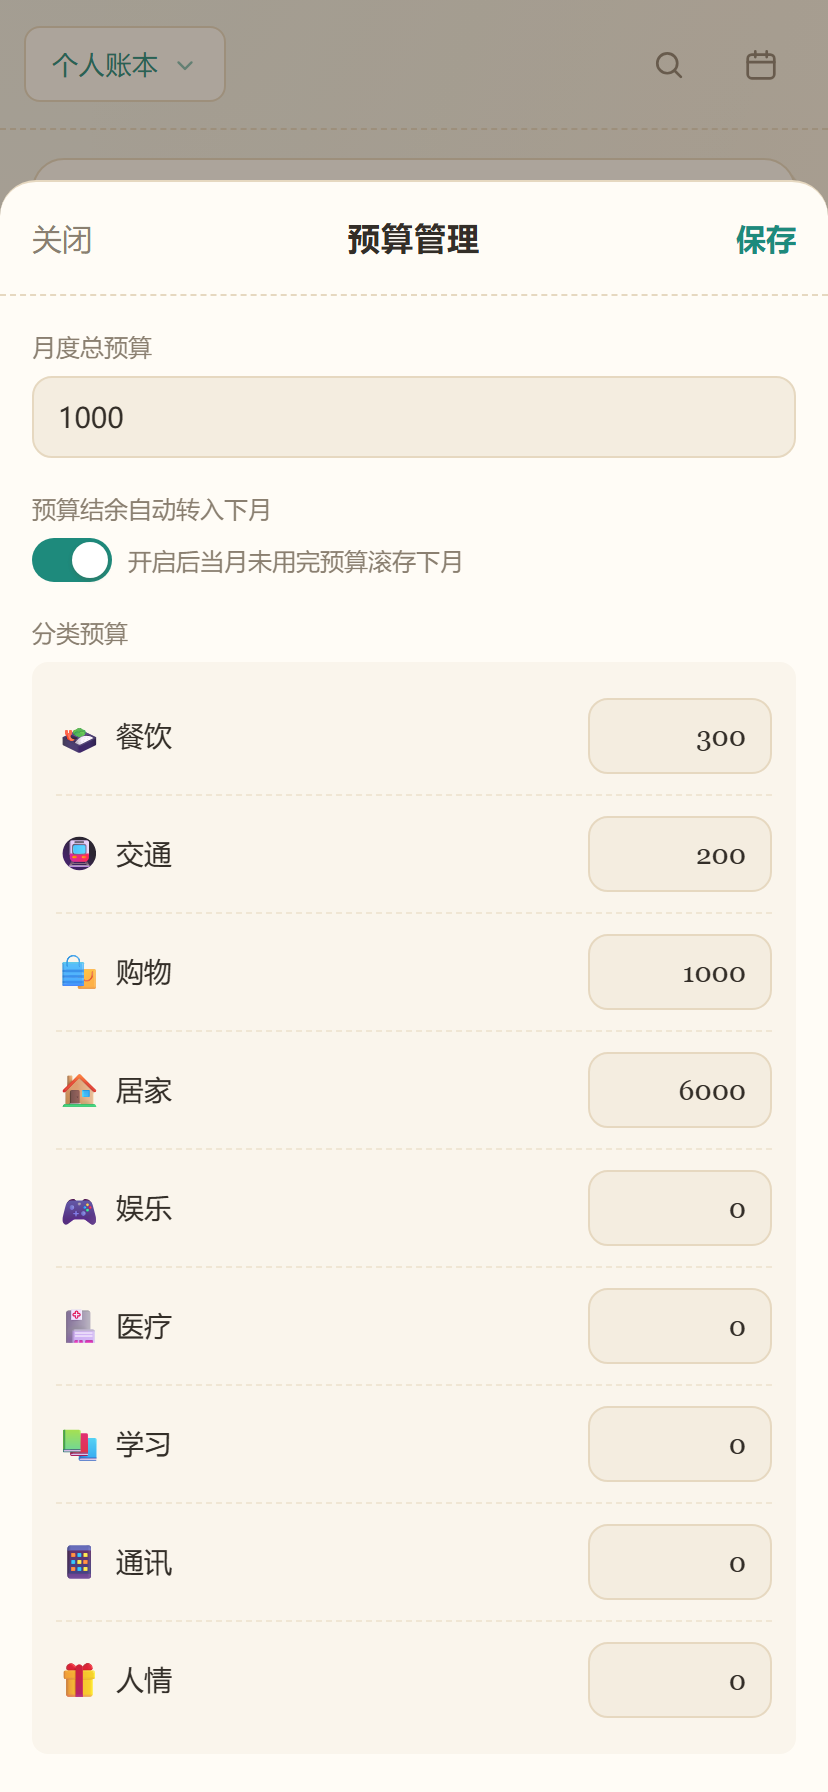
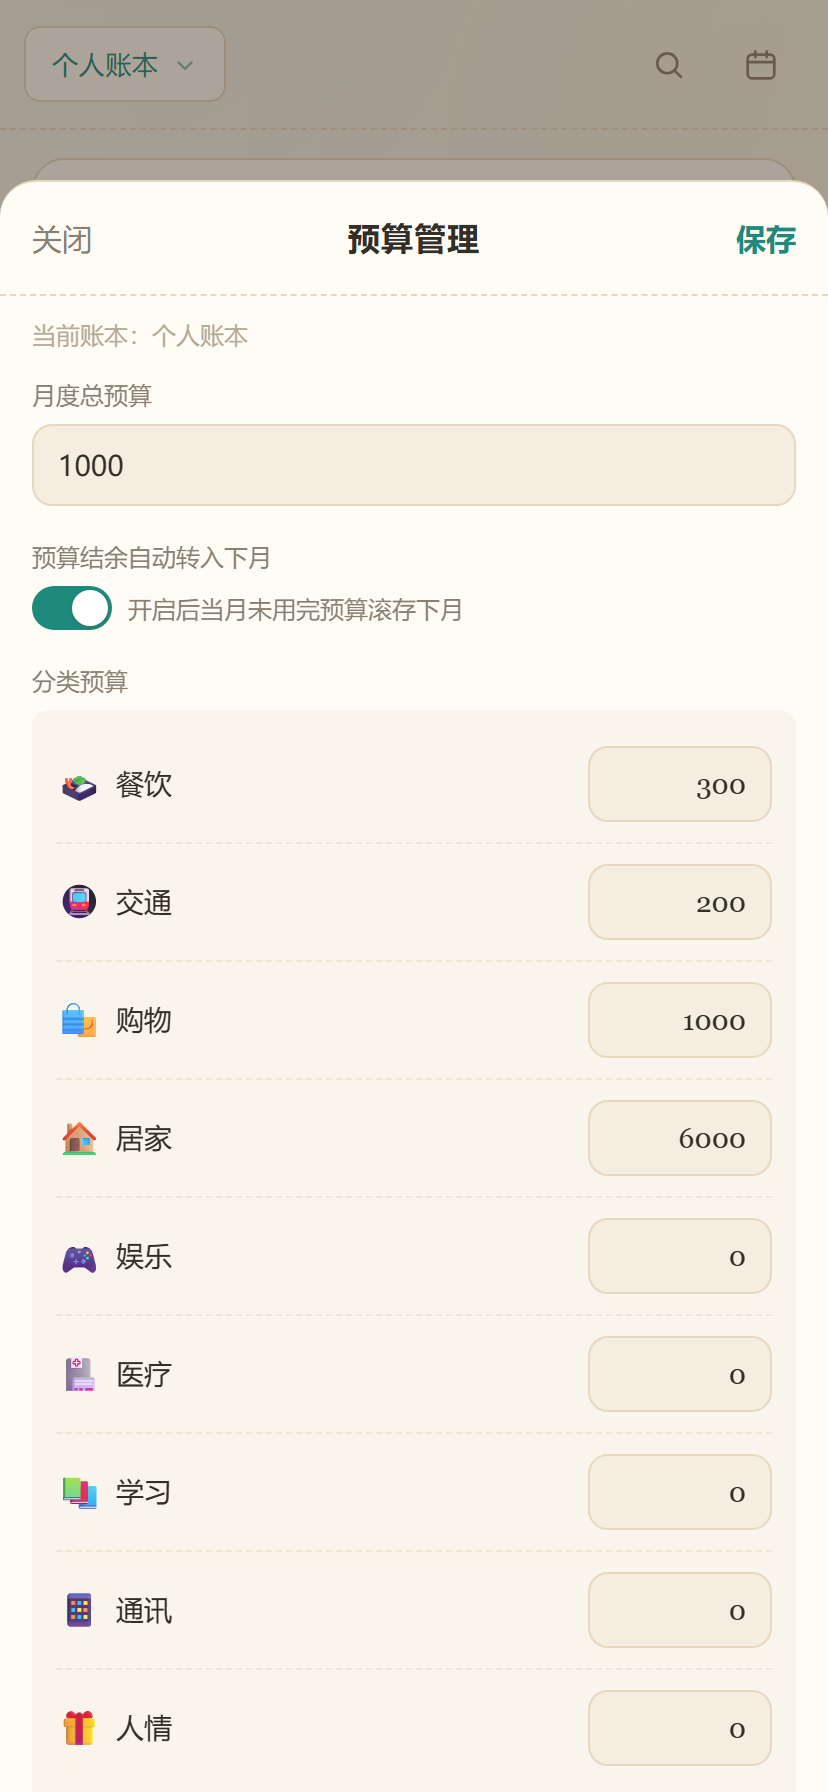
预算：所有账本均可设置本月预算，支持新增与修改（v1.2）

diff --git a/index.html b/index.html
@@ -271,6 +271,12 @@
       60% { box-shadow: 0 0 0 4px rgba(192,68,47,0); }
       100% { box-shadow: 0 0 0 0 rgba(192,68,47,0); }
     }
+    /* 未设置预算时的引导块（所有账本通用） */
+    .budget-empty { text-align: center; padding: 14px 8px 4px; }
+    .budget-empty .msg { font-size: 13px; color: var(--text-2); }
+    .budget-empty .empty-hint { font-size: 11.5px; color: var(--text-3); margin-top: 6px; letter-spacing: .3px; }
+    /* 预算弹窗顶部的账本归属提示 */
+    .budget-scope { font-size: 12px; color: var(--text-3); margin: -6px 0 12px; }
 
     /* ============ 账单列表 ============ */
     .bill-section { margin-bottom: 10px; }
@@ -1326,6 +1332,7 @@
         <button class="save" id="saveBudget">保存</button>
       </div>
       <div class="modal-body">
+        <div class="budget-scope" id="bgScope">当前账本</div>
         <div class="field">
           <label>月度总预算</label>
           <input type="number" id="bgTotal" step="0.01" placeholder="0 表示不设">
@@ -2035,8 +2042,10 @@
       $('#mPrev').onclick = () => goMonth(-1);
       $('#mNext').onclick = () => goMonth(1);
 
-      // 预算卡片
-      const bg = (DATA.budgets[STATE.activeLedger] || { total: 0, categories: {} });
+      // 预算卡片：所有账本（个人/家庭/旅行/自定义）都展示，未设置时提供「新增」入口
+      const bg = (DATA.budgets[STATE.activeLedger] || { total: 0, carryOver: false, categories: {} });
+      const catBudgetEntries = Object.entries(bg.categories || {}).filter(([, v]) => v > 0);
+      const hasBudget = bg.total > 0 || catBudgetEntries.length > 0;
       let budgetCardHtml = '';
       if (bg.total > 0) {
         // 结余结转：上月未用完的预算滚入本月
@@ -2058,7 +2067,6 @@
         <div style="font-size:11.5px;margin-top:6px;color:${remaining >= 0 ? 'var(--text-3)' : 'var(--danger)'};font-weight:${remaining >= 0 ? '400' : '600'}">${remaining >= 0 ? '剩余 ' + fmtNum(remaining) : '已超支 ' + fmtNum(-remaining)}</div>`;
       }
       // 分类预算
-      const catBudgetEntries = Object.entries(bg.categories || {}).filter(([, v]) => v > 0);
       if (catBudgetEntries.length) {
         catBudgetEntries.forEach(([cid, val]) => {
           const cat = categoryById(cid);
@@ -2076,13 +2084,19 @@
           <div class="progress"><div class="progress-bar ${cls}" style="width:${p}%"></div></div>`;
         });
       }
-      if (budgetCardHtml) {
-        $('#budgetCard').innerHTML = `<div class="card-title"><span>本月预算</span><span class="more" id="editBudgetBtn">设置</span></div>${budgetCardHtml}`;
-        $('#budgetCard').style.display = '';
-        $('#editBudgetBtn').onclick = openBudgetEditor;
+      if (hasBudget) {
+        $('#budgetCard').innerHTML = `<div class="card-title"><span>本月预算</span><span class="more" id="editBudgetBtn">修改</span></div>${budgetCardHtml}`;
       } else {
-        $('#budgetCard').style.display = 'none';
+        $('#budgetCard').innerHTML = `<div class="card-title"><span>本月预算</span><span class="more" id="editBudgetBtn">新增</span></div>
+          <div class="budget-empty">
+            <div class="msg">还没有设置本月预算</div>
+            <div class="empty-hint">设置后可在这里看到已用与剩余进度</div>
+            <button class="btn ghost" id="addBudgetBtn" style="margin-top:14px;padding:9px 20px;font-size:13px">设置本月预算</button>
+          </div>`;
+        $('#addBudgetBtn').onclick = openBudgetEditor;
       }
+      $('#editBudgetBtn').onclick = openBudgetEditor;
+      $('#budgetCard').style.display = '';
 
       // 账单列表（按日期分组）
       const wrap = $('#billsWrap');
@@ -2846,8 +2860,15 @@
        ==================================================================== */
     $$('[data-go="budgets"]').forEach(b => b.addEventListener('click', openBudgetEditor));
     function openBudgetEditor() {
-      const bg = DATA.budgets[STATE.activeLedger] || { total: 0, carryOver: false, categories: {} };
+      // 所有账本都可编辑预算：不存在或结构不完整时按空预算补齐
+      let bg = DATA.budgets[STATE.activeLedger];
+      if (!bg || typeof bg !== 'object') bg = { total: 0, carryOver: false, categories: {} };
+      if (!bg.categories) bg.categories = {};
       DATA.budgets[STATE.activeLedger] = bg;
+      // 提示当前编辑的是哪个账本，避免多账本时改错对象
+      const led = ledgerById(STATE.activeLedger);
+      const scopeEl = $('#bgScope');
+      if (scopeEl) scopeEl.textContent = '当前账本：' + (led ? led.name : '—');
       $('#bgTotal').value = bg.total || 0;
       $('#bgCarry').classList.toggle('on', !!bg.carryOver);
       const list = $('#bgCatList');
@@ -3633,7 +3654,7 @@
         <div style="text-align:center;padding:20px 0">
           <div style="width:76px;height:76px;border-radius:50%;background:var(--primary-soft);color:var(--primary);display:flex;align-items:center;justify-content:center;margin:0 auto">${svgOf('leaf', 40)}</div>
           <div style="font-size:20px;font-weight:700;margin-top:12px;letter-spacing:2px">小青账</div>
-          <div style="font-size:12px;color:var(--text-3);margin:4px 0 20px">HTML 复刻版 · v1.1<span style="opacity:.7"> · 2026-10-20</span></div>
+          <div style="font-size:12px;color:var(--text-3);margin:4px 0 20px">HTML 复刻版 · v1.2<span style="opacity:.7"> · 2026-10-20</span></div>
           <p style="font-size:13px;color:var(--text-2);line-height:1.7">
             原版参考：小青账 (pro.youqian.bill)<br>
             本复刻为学习/演示用途，纯前端实现：<br>

diff --git a/guide.html b/guide.html
@@ -142,7 +142,7 @@
     <h1>小青账 · HTML 版<br>使用说明书</h1>
     <p class="sub">一款可离线运行的轻量记账工具 —— 多账本、二级分类、资产管理、分类预算、可视化报表</p>
     <div class="chips">
-      <span class="chip">适用 App v1.1</span>
+      <span class="chip">适用 App v1.2</span>
       <span class="chip grey">实测日期 2026-10-17</span>
       <span class="chip grey">18 组 · 136 项功能实测全部通过</span>
       <span class="chip grey">本地存储 · 零联网</span>
@@ -193,7 +193,7 @@
       <tr><td>搜索</td><td>按备注、分类、账户、金额、日期关键词检索当前账本的账单</td></tr>
       <tr><td>报表</td><td>当日收支趋势折线图 + 分类占比环形图，支持一级 / 二级分类粒度切换</td></tr>
       <tr><td>资产</td><td>多账户余额管理；净资产 / 总资产 / 总负债汇总；账户可增删改；支持自定义支付方式</td></tr>
-      <tr><td>预算</td><td>月度总预算 + 各一级分类预算；进度条与超支预警；可将上月结余结转到本月</td></tr>
+      <tr><td>预算</td><td>月度总预算 + 各一级分类预算，每个账本独立设置；进度条与超支预警；可将上月结余结转到本月</td></tr>
       <tr><td>日历</td><td>月历视图，有收支的日期打点（红=支出／绿=收入），点日期查看当日明细</td></tr>
       <tr><td>分类管理</td><td>支出 / 收入两套分类，支持新增一级与二级分类、改图标改名称、删除</td></tr>
       <tr><td>数据</td><td>导出 JSON 全量备份或 CSV 账单（Excel 可直接打开）；导入支持「合并」与「覆盖」两种方式</td></tr>
@@ -472,9 +472,9 @@
 
   <!-- 3.8 -->
   <h3><span class="no">3.8</span>预算：给花钱设一条线</h3>
-  <p><strong>用途：</strong>设定月度总预算与分类预算，超支时首页直接预警。</p>
+  <p><strong>用途：</strong>设定月度总预算与分类预算，超支时首页直接预警。<strong>所有账本</strong>（个人、家庭、旅行以及新建账本）都能单独设置，互不影响。</p>
   <ol class="steps">
-    <li>进入<strong>「👤 我的 → 🎯 预算」</strong>（首页预算卡右上角的「设置」也能进）。</li>
+    <li>进入<strong>「👤 我的 → 🎯 预算」</strong>（首页预算卡右上角的「新增」/「修改」也能进）。</li>
     <li>填<strong>月度总预算</strong>，例如 1000；填 0 表示不设预算。</li>
     <li>在<strong>分类预算</strong>区域为关心的类别单独定额（如餐饮 300、交通 200），留 0 表示该类不设限。</li>
     <li><strong>「预算结余自动转入下月」</strong>打开后，上月没花完的额度会滚到本月，首页卡片会标注「含结转 X」。</li>
@@ -846,7 +846,7 @@
   </ol>
 
   <div class="foot">
-    <span>小青账 · HTML 复刻版　使用说明书 v1.0（适用 App v1.1）</span>
+    <span>小青账 · HTML 复刻版　使用说明书 v1.0（适用 App v1.2）</span>
     <span>实测 2026-10-17 · 18 组 136 项全部通过</span>
   </div>
 

diff --git a/DEVELOPING.md b/DEVELOPING.md
@@ -43,7 +43,7 @@
 
 | 位置 | 形式 |
 |---|---|
-| App「我的 → 关于小青账」 | `HTML 复刻版 · v1.1 · 2026-10-20` |
+| App「我的 → 关于小青账」 | `HTML 复刻版 · v1.2 · 2026-10-20` |
 | `DEVELOPING.md` 本节版本历史 | 表格一行 |
 | `guide.html` 封面 chip | `适用 App v1.1` |
 
@@ -53,6 +53,7 @@
 |---|---|---|
 | v1.0 | 2026-10-17 | 首个可发布版本：记账、报表、资产、预算、日历、搜索、导入导出、深色模式、PIN 锁 |
 | v1.1 | 2026-10-20 | 日历新增月/年账单统计与逐条明细（按日/按月分段、可切平铺、首屏 30 条 + 加载更多）；App 内新增「使用说明」入口；修复月份切换后选中日期不跟随等缺陷 |
+| v1.2 | 2026-10-20 | 本月预算对所有账本开放（含旅行账本与自定义账本）：首页预算卡片不再依赖是否已设预算，未设置时显示引导与「设置本月预算」按钮，已设置时可点「修改」；预算弹窗显示当前账本归属，并兼容缺失预算结构的历史数据 |
 
 ## 技术说明
 
